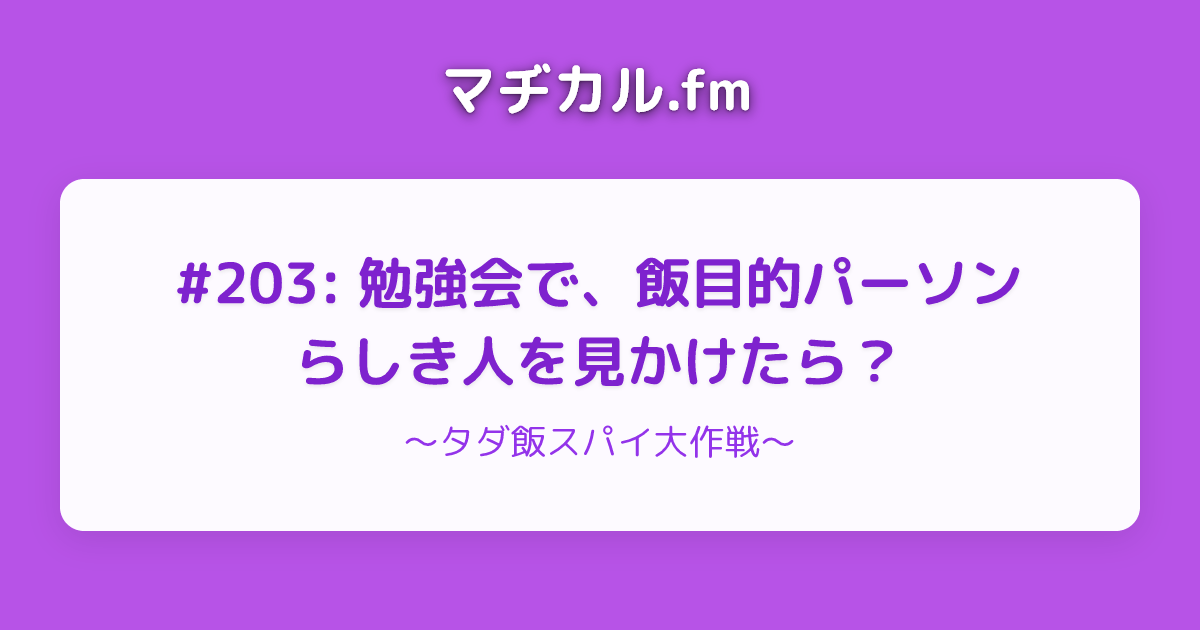
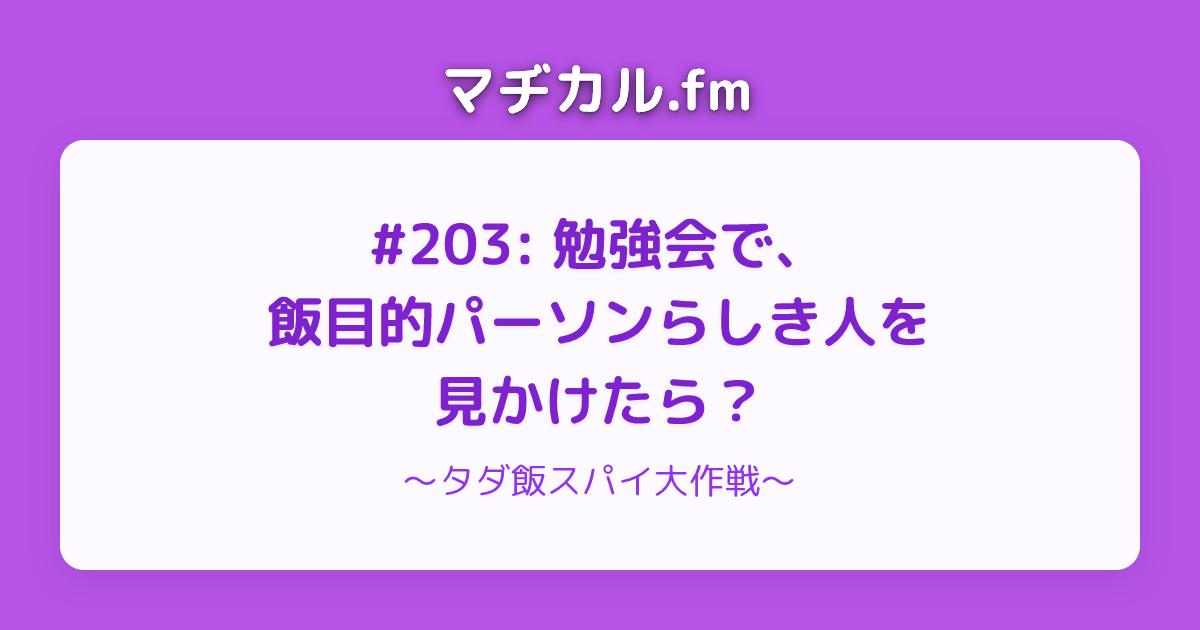
feat: OGP画像生成にbudouxを導入して日本語の自然な改行を実現 (#9)
- budoux パッケージを追加
- generate-og.jsx でタイトルとサブタイトルをbudouxで分割
- satoriのflex layoutと組み合わせて文節単位での改行を実現

<!-- This is an auto-generated comment: release notes by coderabbit.ai
-->

## Summary by CodeRabbit

## リリースノート

* **新機能**
*
タイトルとサブタイトルのレンダリング方式を改善しました。テキストセグメンテーション処理の最適化により、より適切なテキスト折り返しと表示品質が向上します。

* **更新**
  * テキスト処理機能の強化に対応する新しい依存ライブラリを統合しました。

<sub>✏ Tip: You can customize this high-level summary in your review
settings.</sub>

<!-- end of auto-generated comment: release notes by coderabbit.ai -->

---------

Changed region(s): [[0.1233, 0.3317, 0.8633, 0.7841], [0.0308, 0.2111, 0.9558, 0.3016], [0.0308, 0.8143, 0.9558, 0.9048]]

diff --git a/scripts/generate-og.jsx b/scripts/generate-og.jsx
@@ -3,7 +3,22 @@ import path from "node:path";
 import React from "react";
 import satori from "satori";
 import { Resvg } from "@resvg/resvg-js";
+import { loadDefaultJapaneseParser } from "budoux";
 import episodesData from "../src/data/episodes.json" with { type: "json" };
+
+// budoux日本語パーサーを初期化
+const parser = loadDefaultJapaneseParser();
+
+// budouxでテキストを分割し、各セグメントをspanで囲む
+// satoriではdisplay: flex | block | noneのみサポート
+function wrapWithBudoux(text, style = {}) {
+	const segments = parser.parse(text);
+	return segments.map((segment, index) => (
+		<span key={index} style={{ ...style }}>
+			{segment}
+		</span>
+	));
+}
 
 // OGP画像のサイズ
 const WIDTH = 1200;
@@ -498,6 +513,7 @@ export async function generateOGP(options) {
 					<div
 						style={{
 							display: "flex",
+							flexWrap: "wrap",
 							justifyContent: "center",
 							fontSize: "56px",
 							fontWeight: 700,
@@ -505,27 +521,24 @@ export async function generateOGP(options) {
 							color: "#7E22CE",
 							letterSpacing: "-0.5px",
 							textShadow: "0 2px 4px rgba(0, 0, 0, 0.08)",
-							wordBreak: "keep-all",
-							overflowWrap: "break-word",
 						}}
 					>
-						{title}
+						{wrapWithBudoux(title)}
 					</div>
 					{subtitle && (
 						<div
 							style={{
 								display: "flex",
+								flexWrap: "wrap",
 								justifyContent: "center",
 								fontSize: "36px",
 								fontFamily: "MPLUSRounded1c",
 								fontWeight: 400,
 								color: "#9333EA",
 								letterSpacing: "-0.3px",
-								wordBreak: "keep-all",
-								overflowWrap: "break-word",
 							}}
 						>
-							〜{subtitle}〜
+							〜{wrapWithBudoux(subtitle)}〜
 						</div>
 					)}
 				</div>
